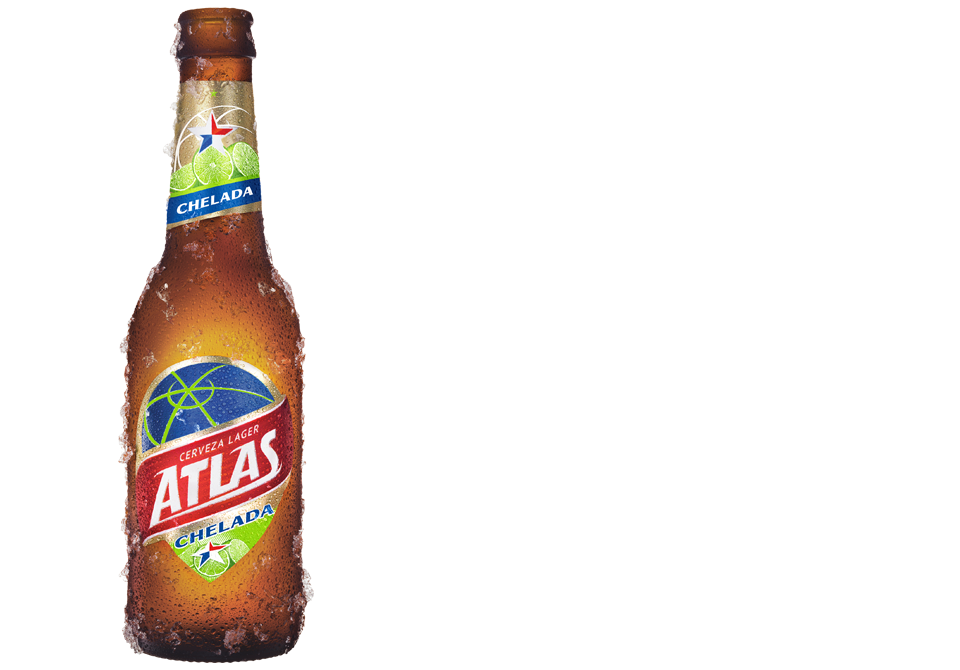
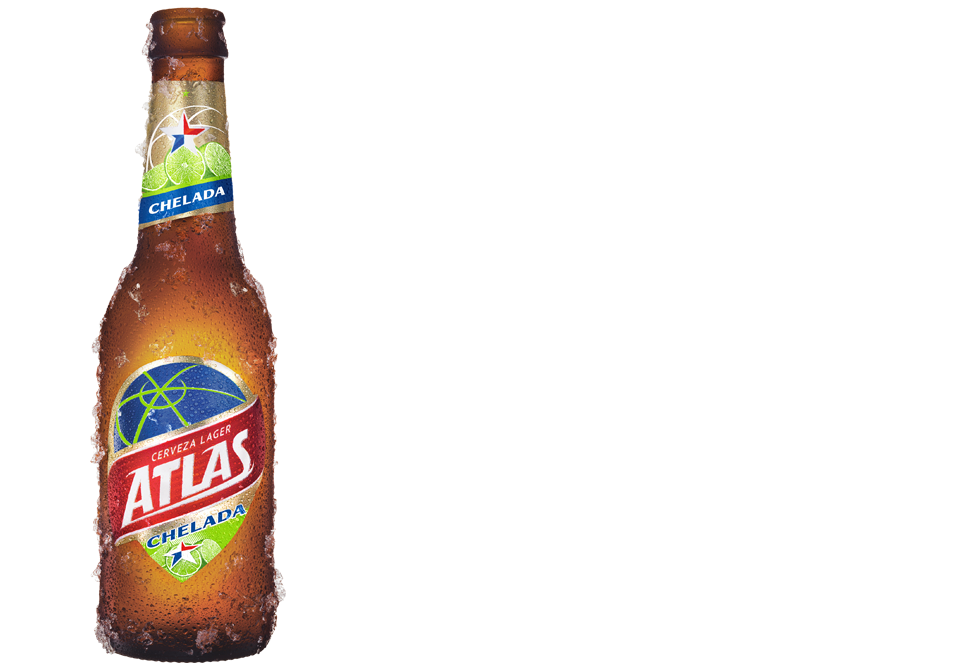
Atlas theme - Age Gate changes

Changed region(s): [[0.0938, 0.0, 0.3438, 1.0]]

diff --git a/atlas_theme/css/agegate.css b/atlas_theme/css/agegate.css
@@ -148,10 +148,10 @@ margin: 0px 5px 0px 5px;
     background-repeat: no-repeat;
     background-size: contain;
     position: absolute;
-    bottom: 0;
+    bottom: 100px;
     width: 100%;
-    height: 88.5%;
-    min-height: 520px;
+    height: 65%;
+    min-height: 500px;
     display: none;
 }
 
